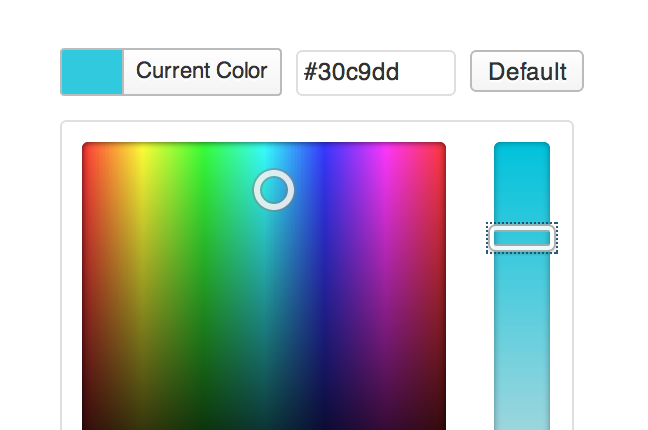
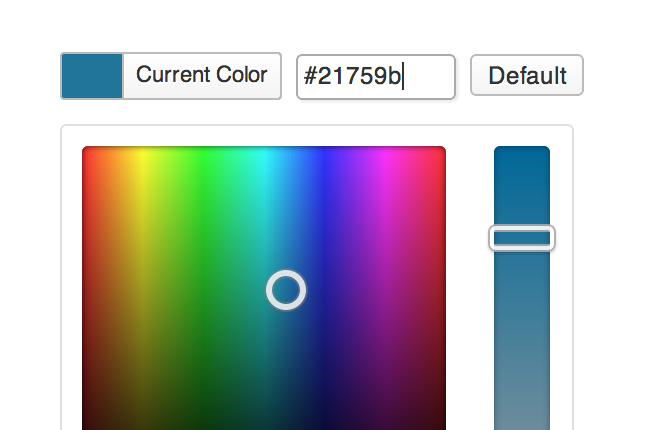
Reorganize and polish the About WordPress 3.5 screen. Offer strings for translation.
props lessbloat, helenyhou, markjaquith, nacin.
fixes #22455.

git-svn-id: https://develop.svn.wordpress.org/trunk@22903 602fd350-edb4-49c9-b593-d223f7449a82

diff --git a/wp-admin/css/wp-admin.css b/wp-admin/css/wp-admin.css
@@ -5206,15 +5206,6 @@ h2 .nav-tab {
 	padding-top: 20px;
 }
 
-.about-wrap .changelog {
-	overflow: hidden;
-}
-
-.about-wrap .changelog li {
-	list-style-type: disc;
-	margin-left: 3em;
-}
-
 .about-wrap .feature-section {
 	padding-bottom: 20px;
 }
@@ -5303,19 +5294,12 @@ h2 .nav-tab {
 
 .about-wrap .feature-section.images-stagger-right img {
 	float: right;
-	margin: 0 5px 12px 12px;
+	margin: 0 5px 12px 2em;
 }
 
 .about-wrap .feature-section.images-stagger-left img {
 	float: left;
-	margin: 0 12px 12px 5px;
-}
-
-@media only screen and (max-width: 900px) {
-	.about-wrap .feature-section.images-stagger-left img,
-	.about-wrap .feature-section.images-stagger-right img {
-		clear: both;
-	}
+	margin: 0 2em 12px 5px;
 }
 
 .about-wrap .feature-section img.image-100 {
@@ -5324,7 +5308,6 @@ h2 .nav-tab {
 }
 
 .about-wrap .feature-section img.image-66 {
-	margin: 0 0 0 1em;
 	width: 65%;
 }
 
@@ -5377,6 +5360,39 @@ h2 .nav-tab {
 
 .about-wrap .three-col-images .first-feature {
 	float: left;
+}
+
+.about-wrap .changelog .feature-section {
+	overflow: hidden;
+	padding-bottom: 0;
+}
+
+.about-wrap .changelog li {
+	list-style-type: disc;
+	margin-left: 3em;
+}
+
+@media only screen and (max-width: 900px) {
+	.about-wrap .feature-section.images-stagger-left img,
+	.about-wrap .feature-section.images-stagger-right img {
+		clear: both;
+	}
+}
+
+@media only screen and (max-width: 768px) {
+	.about-wrap .feature-section img.image-66 {
+		float: none;
+		width: 98%;
+		max-width: 98%;
+	}
+
+	.about-wrap .feature-section.images-stagger-right img.image-66 {
+		margin-left: 3px;
+	}
+
+	.about-wrap .feature-section.images-stagger-left img.image-66 {
+		margin-right: 3px;
+	}
 }
 
 /* Return to Dashboard Home link */

diff --git a/wp-admin/css/wp-admin-rtl.css b/wp-admin/css/wp-admin-rtl.css
@@ -1515,12 +1515,12 @@ h2 .nav-tab {
 
 .about-wrap .feature-section.images-stagger-right img {
 	float: left;
-	margin: 0 12px 12px 5px;
+	margin: 0 2em 12px 5px;
 }
 
 .about-wrap .feature-section.images-stagger-left img {
 	float: right;
-	margin: 0 5px 12px 12px;
+	margin: 0 5px 12px 2em;
 }
 
 .about-wrap li.wp-person,
@@ -1528,6 +1528,20 @@ h2 .nav-tab {
 	float: right;
 	margin-right: 0;
 	margin-left: 10px;
+}
+
+@media only screen and (max-width: 768px) {
+	.about-wrap .feature-section img.image-66 {
+		float: none;
+	}
+
+	.about-wrap .feature-section.images-stagger-right img.image-66 {
+		margin-right: 3px;
+	}
+
+	.about-wrap .feature-section.images-stagger-left img.image-66 {
+		margin-left: 3px;
+	}
 }
 
 /*------------------------------------------------------------------------------

diff --git a/wp-admin/about.php b/wp-admin/about.php
@@ -19,7 +19,7 @@ include( ABSPATH . 'wp-admin/admin-header.php' );
 
 <h1><?php printf( __( 'Welcome to WordPress %s' ), $display_version ); ?></h1>
 
-<div class="about-text"><?php printf( ( 'Thank you for updating to the latest version! WordPress %s helps make your web publishing experience easier, faster, and more enjoyable than ever. Welcome aboard.' ), $display_version ); ?></div>
+<div class="about-text"><?php printf( __( 'Thank you for updating to the latest version! WordPress %s is more polished and enjoyable than ever before. We hope you like it.' ), $display_version ); ?></div>
 
 <div class="wp-badge"><?php printf( __( 'Version %s' ), $display_version ); ?></div>
 
@@ -34,127 +34,91 @@ include( ABSPATH . 'wp-admin/admin-header.php' );
 </h2>
 
 <div class="changelog">
-	<h3><?php echo ( 'Media Management' ); ?></h3>
+	<h3><?php _e( 'New Media Manager' ); ?></h3>
 
 	<div class="feature-section three-col">
 		<img alt="" src="<?php echo esc_url( admin_url( 'images/screenshots/about-media.png' ) ); ?>" class="image-100" />
 
 		<div>
-			<h4><?php echo ( 'Easier interface' ); ?></h4>
-			<p><?php echo ( 'Adding media to your posts is more streamlined than ever. It\'s a breeze to insert, align, caption, and link to media within your posts.' ); ?></p>
+			<h4><?php _e( 'Beautiful Interface' ); ?></h4>
+			<p><?php _e( 'Adding media has been streamlined with an all-new experience, making it a breeze to upload files and place them into your posts.' ); ?></p>
 		</div>
 		<div>
-			<h4><?php echo ( 'Picturesque galleries' ); ?></h4>
-			<p><?php echo ( 'Adding image galleries is easier with drag and drop reordering, inline caption editing, and simplified controls for the gallery layout.' ); ?></p>
+			<h4><?php _e( 'Picturesque Galleries' ); ?></h4>
+			<p><?php _e( 'Creating image galleries is faster with drag and drop reordering, inline caption editing, and simplified controls for layout.' ); ?></p>
 		</div>
 		<div class="last-feature">
-			<h4><?php echo ( 'Attachment page editor' ); ?></h4>
-			<p><?php echo ( 'You can crop, rotate and resize images right in the Media Library! There are now formatting controls for content on your attachment pages.' ); ?></p>
+			<h4><?php _e( 'Insert Multiple Images' ); ?></h4>
+			<p><?php _e( 'Have a need for speed? You can now insert multiple images at once and then compose your words around them.' ); ?></p>
 		</div>
 	</div>
 </div>
 
 <div class="changelog">
-	<h3><?php echo ( 'Smoother experience' ); ?></h3>
-
-	<div class="feature-section">
-		<h4><?php echo ( 'Simplified settings, better buttons, easier controls' ); ?></h4>
-		<p><?php echo ( 'WordPress always aims to stay out of the way, and let you get on with publishing your content. You\'ll find simplified settings screens, more aesthetically pleasing buttons, and easier controls such as the improved color picker. They\'re the little details we hope you\'ll never notice.' ); ?></p>
-		<div class="three-col-images">
-			<img alt="" src="<?php echo esc_url( admin_url( 'images/screenshots/about-tinymce.png' ) ); ?>" class="image-30 first-feature" />
-			<img alt="" src="<?php echo esc_url( admin_url( 'images/screenshots/about-buttons.png' ) ); ?>" class="image-30" />
-			<img alt="" src="<?php echo esc_url( admin_url( 'images/screenshots/about-color-picker.png' ) ); ?>" class="image-30 last-feature" />
-		</div>
-	</div>
-</div>
-
-<div class="changelog">
-	<h3><?php echo ( 'Twenty Twelve theme' ); ?></h3>
+	<h3><?php _e( 'New Default Theme' ); ?></h3>
 
 	<div class="feature-section images-stagger-right">
 		<img alt="" src="<?php echo esc_url( admin_url( 'images/screenshots/about-twenty-twelve.png' ) ); ?>" class="image-66" />
-		<h4><?php echo ( 'Beauty in its simplicity' ); ?></h4>
-		<p><?php echo ( 'Twenty Twelve is an elegant, readable, and fully responsive theme that makes your site content look its best on any device.' ); ?></p>
-		<p><?php echo ( 'Make the design of your site fully yours with a custom menu, custom header image, and custom background color or image.' ); ?></p>
+		<h4><?php _e( 'Introducing Twenty Twelve' ); ?></h4>
+		<p><?php _e( 'The newest default theme for WordPress is simple, flexible, and elegant.' ); ?></p>
+		<p><?php _e( 'What makes it really shine are the design details, like the gorgeous Open Sans typeface and a fully responsive design that looks great on any device.' ); ?></p>
+		<p><?php _e( 'Naturally, Twenty Twelve supports all the theme features you’ve come to know and love, but it is also designed to be as great for a website as it is for a blog.' ); ?></p>
 	</div>
 </div>
 
 <div class="changelog">
-	<h3><?php echo ( 'HiDPI Admin' ); ?></h3>
+	<h3><?php _e( 'Retina Ready' ); ?></h3>
 
 	<div class="feature-section images-stagger-right">
-		<img alt="" src="<?php echo esc_url( admin_url( 'images/screenshots/about-hidef.png' ) ); ?>" class="image-66" />
-		<h4><?php echo ( 'Retina all the things' ); ?></h4>
-		<p><?php echo ( 'WordPress now looks as beautiful on HiDPI devices as native applications do. Icons, buttons, avatars and theme screenshots (where supported) are crystal clear and full of detail.' ); ?></p>
+		<img alt="" src="<?php echo esc_url( admin_url( 'images/screenshots/about-retina.png' ) ); ?>" class="image-66" />
+		<h4><?php _e( 'So Sharp You Can&#8217;t See the Pixels' ); ?></h4>
+		<p><?php _e( 'The WordPress dashboard now looks beautiful on high-resolution screens like those found on the iPad, Kindle Fire HD, Nexus 10, and MacBook Pro with Retina Display. Icons and other visual elements are crystal clear and full of detail.' ); ?></p>
 	</div>
 </div>
 
 <div class="changelog">
-	<h3><?php echo ( 'Better Accessibility' ); ?></h3>
+	<h3><?php _e( 'Smoother Experience' ); ?></h3>
 
 	<div class="feature-section images-stagger-right">
-		<img alt="" src="<?php echo esc_url( admin_url( 'images/screenshots/about-accessibility2.png' ) ); ?>" class="image-30" />
-		<img alt="" src="<?php echo esc_url( admin_url( 'images/screenshots/about-accessibility1.png' ) ); ?>" class="image-30" />
-		<h4><?php echo ( 'For everyone' ); ?></h4>
-		<p><?php echo ( 'WordPress has wider support for more devices than ever before. Users of screenreaders, touch devices, and mouse-less devices will all see improvements to ease of use and accessibility.' ); ?></p>
-		<?php //TODO: Link to new Codex page listing the accessibility features of WordPress. ?>
+		<img alt="" src="<?php echo esc_url( admin_url( 'images/screenshots/about-color-picker.png' ) ); ?>" class="image-30" />
+		<h4><?php _e( 'Better Accessibility' ); ?></h4>
+		<p><?php _e( 'WordPress supports more usage modes than ever before. Screenreaders, touch devices, and mouseless workflows all have improved ease of use and accessibility.' ); ?></p>
+
+		<h4><?php _e( 'More Polish' ); ?></h4>
+		<p><?php _e( 'A number of screens and controls have been refined. For example, a new color picker makes it easier for you to choose that perfect shade of blue.' ); ?></p>
 	</div>
 </div>
 
 <div class="changelog">
-	<h3><?php echo ( 'More Embed Support' ); ?></h3>
-
-	<div class="feature-section">
-		<h4><?php echo ( 'Instagram, SlideShare, and SoundCloud' ); ?></h4>
-		<p><?php echo ( 'You can now embed content from Instagram, SlideShare, and SoundCloud without having to mess around copying and pasting embed codes. Just paste a URL from any of these sites onto its own line in your post and the content will automatically be embedded for you.' ); ?></p>
-		<p><?php printf( ( 'This works for several other popular sites, too, such as YouTube, Flickr, and Vimeo. For more, see the Codex article on <a href="%s">Embeds</a>.' ), ( 'http://codex.wordpress.org/Embeds' ) ); ?></p>
-		<div class="three-col-images">
-			<img alt="" src="<?php echo esc_url( admin_url( 'images/screenshots/about-instagram.png' ) ); ?>" class="image-30 first-feature" />
-			<img alt="" src="<?php echo esc_url( admin_url( 'images/screenshots/about-slideshare.png' ) ); ?>" class="image-30" />
-			<img alt="" src="<?php echo esc_url( admin_url( 'images/screenshots/about-soundcloud.png' ) ); ?>" class="image-30 last-feature" />
-		</div>
-	</div>
-</div>
-
-<?php if ( current_user_can( 'install_plugins' ) ) { ?>
-
-	<div class="changelog">
-		<h3><?php echo ( 'Plugin Favorites' ); ?></h3>
-
-		<div class="feature-section images-stagger-right">
-			<img alt="" src="<?php echo esc_url( admin_url( 'images/screenshots/about-favorite-plugins.png' ) ); ?>" class="image-66" />
-			<h4><?php echo ( 'Which plugins do you love?' ); ?></h4>
-			<p><?php echo ( 'Wouldn\'t it be great to see a list of all your favorite plugins right in the Plugins menu in WordPress? Well, now you can.' ); ?></p>
-			<p><?php printf( ( 'If you have marked plugins as favorites on WordPress.org, you can browse them from the Favorites tab on the <a href="%s">Install Plugins</a> screen.' ), admin_url( 'plugin-install.php?tab=favorites' ) ); ?></p>
-		</div>
-	</div>
-
-<?php } ?>
-
-<div class="changelog">
-	<h3><?php echo ( 'Under the Hood' ); ?></h3>
+	<h3><?php _e( 'Under the Hood' ); ?></h3>
 
 	<div class="feature-section three-col">
 		<div>
-			<h4><?php echo ( 'Meta Query Additions' ); ?></h4>
-			<p><?php echo ( 'The <code>WP_Comment_Query</code> and <code>WP_User_Query</code> classes now support meta queries just like <code>WP_Query</code>.' ); ?></p>
-
-			<h4><?php echo ( 'Multisite Improvements' ); ?></h4>
-			<p><?php echo ( '<code>switch_to_blog()</code> no longer obliterates the object cache, greatly improving performance. For new sites, Multisite now works when WordPress is installed in a subdirectory.' ); ?></p>
+			<h4><?php _e( 'Meta Query Additions' ); ?></h4>
+			<p><?php _e( 'The <code>WP_Comment_Query</code> and <code>WP_User_Query</code> classes now support meta queries just like <code>WP_Query.</code> Meta queries now support querying for objects without a particular meta key.' ); ?></p>
 		</div>
 		<div>
-			<h4><?php echo ( 'WP_Post' ); ?></h4>
-			<p><?php echo ( 'Post objects are now instances of the new <code>WP_Post</code> class which improves performance by loading selected properties on demand.' ); ?></p>
-
-			<h4><?php echo ( 'XML-RPC API' ); ?></h4>
-			<p><?php printf( ( 'The <a href="%s">WordPress API</a> is now enabled by default and enjoys the same security as the rest of core. It supports fetching users, profiles, post revisions, and searching posts.' ), ( 'http://codex.wordpress.org/XML-RPC_WordPress_API' ) ); ?></p>
+			<h4><?php _e( 'Post Objects' ); ?></h4>
+			<p><?php _e( 'Post objects are now instances of a <code>WP_Post</code> class, which improves performance by loading selected properties on demand.' ); ?></p>
 		</div>
 		<div class="last-feature">
-			<h4><?php echo ( 'Image Editing API Abstractions' ); ?></h4>
-			<p><?php echo ( 'The <code>WP_Image_Editor</code> class abstracts image editing functionality such as cropping and scaling, and uses ImageMagick when available.' ); ?></p>
+			<h4><?php _e( 'Image Editing API' ); ?></h4>
+			<p><?php _e( 'The <code>WP_Image_Editor</code> class abstracts image editing functionality such as cropping and scaling, and uses ImageMagick when available.' ); ?></p>
+		</div>
+	</div>
 
-			<h4><?php echo ( 'External Libraries' ); ?></h4>
-			<p><?php printf( ('WordPress now includes the <a href="%1$s">Underscore</a> and <a href="%2$s">Backbone</a> JavaScript libraries. TinyMCE, jQuery, jQuery UI, jCrop, and SimplePie have all been updated to the latest versions.' ), 'http://underscorejs.org/', 'http://backbonejs.org/' ); ?></p>
+	<div class="feature-section three-col">
+		<div>
+			<h4><?php _e( 'Multisite Improvements' ); ?></h4>
+			<p><?php _e( '<code>switch_to_blog()</code> is now significantly faster and more reliable.' ); ?></p>
+		</div>
+		<div>
+			<h4><?php _e( 'XML-RPC API' ); ?></h4>
+			<p><?php printf( __( 'The <a href="%s">WordPress API</a> is now always enabled, and supports fetching users, editing profiles, managing post revisions, and searching posts.' ), __( 'http://codex.wordpress.org/XML-RPC_WordPress_API' ) ); ?></p>
+		</div>
+		<div class="last-feature">
+			<h4><?php _e( 'External Libraries' ); ?></h4>
+			<p><?php printf( __( 'WordPress now includes the <a href="%1$s">Underscore</a> and <a href="%2$s">Backbone</a> JavaScript libraries. TinyMCE, jQuery, jQuery UI, and SimplePie have all been updated to the latest versions.' ), 'http://underscorejs.org/', 'http://backbonejs.org/' ); ?></p>
 		</div>
 	</div>
 </div>

diff --git a/wp-admin/credits.php b/wp-admin/credits.php
@@ -52,7 +52,7 @@ include( ABSPATH . 'wp-admin/admin-header.php' );
 
 <h1><?php printf( __( 'Welcome to WordPress %s' ), $display_version ); ?></h1>
 
-<div class="about-text"><?php printf( __( 'Thank you for updating to the latest version! WordPress %s is already making your website better, faster, and more attractive, just like you!' ), $display_version ); ?></div>
+<div class="about-text"><?php printf( __( 'Thank you for updating to the latest version! WordPress %s is more polished and enjoyable than ever before. We hope you like it.' ), $display_version ); ?></div>
 
 <div class="wp-badge"><?php printf( __( 'Version %s' ), $display_version ); ?></div>
 

diff --git a/wp-admin/freedoms.php b/wp-admin/freedoms.php
@@ -19,7 +19,7 @@ include( ABSPATH . 'wp-admin/admin-header.php' );
 
 <h1><?php printf( __( 'Welcome to WordPress %s' ), $display_version ); ?></h1>
 
-<div class="about-text"><?php printf( __( 'Thank you for updating to the latest version! WordPress %s is already making your website better, faster, and more attractive, just like you!' ), $display_version ); ?></div>
+<div class="about-text"><?php printf( __( 'Thank you for updating to the latest version! WordPress %s is more polished and enjoyable than ever before. We hope you like it.' ), $display_version ); ?></div>
 
 <div class="wp-badge"><?php printf( __( 'Version %s' ), $display_version ); ?></div>
 
